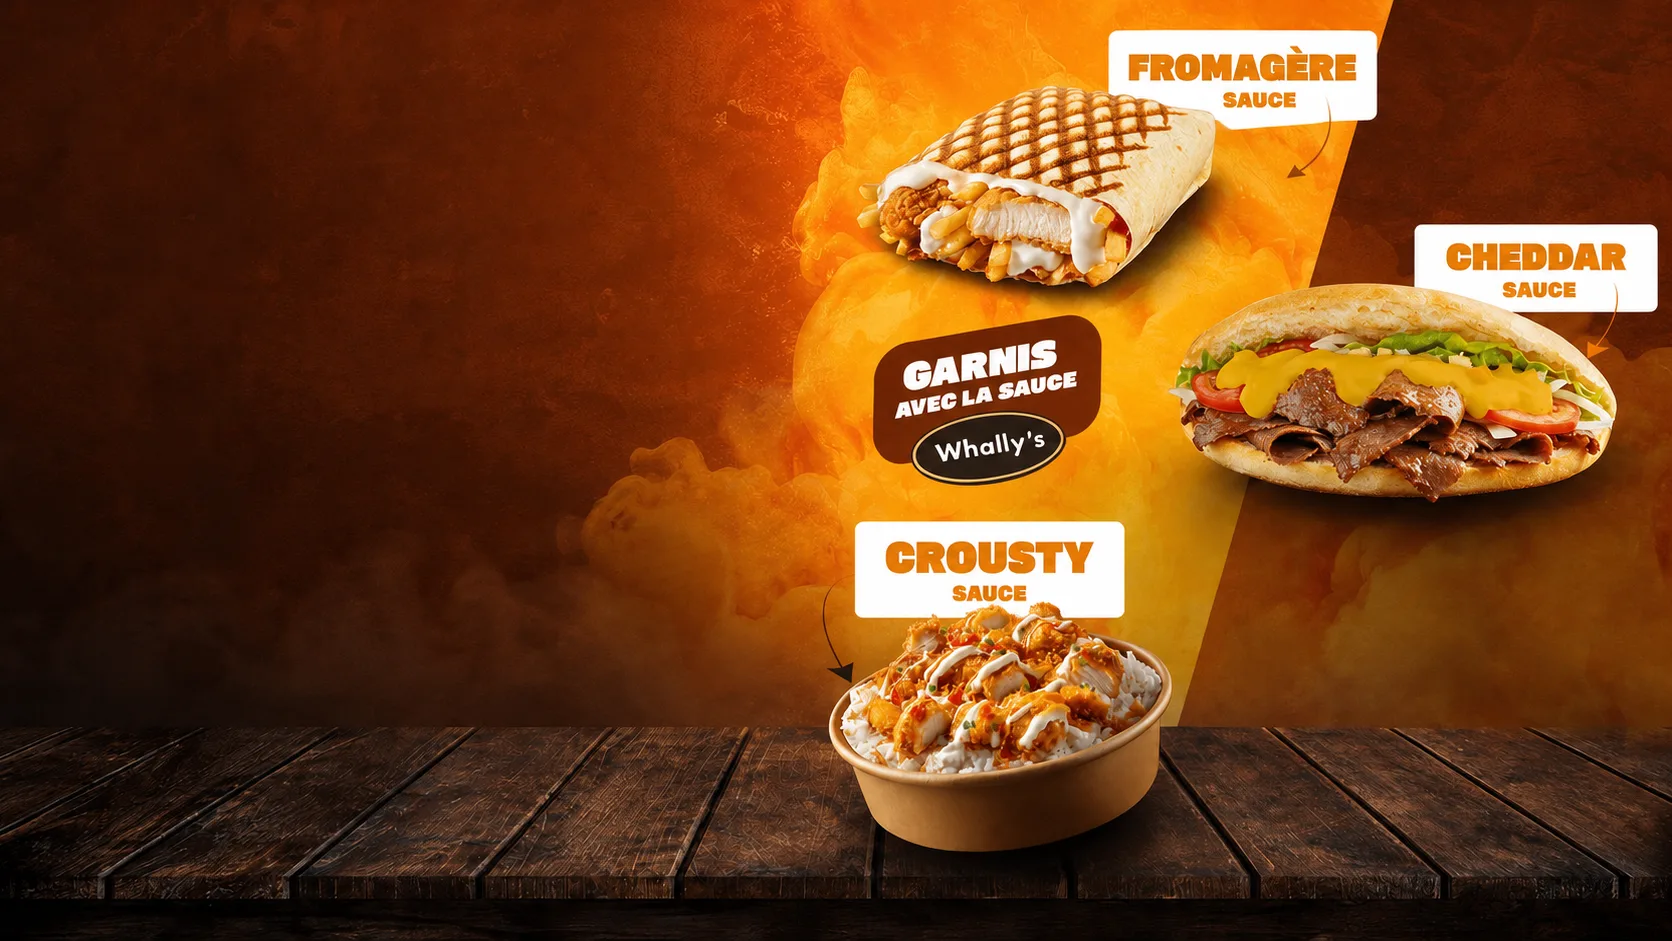
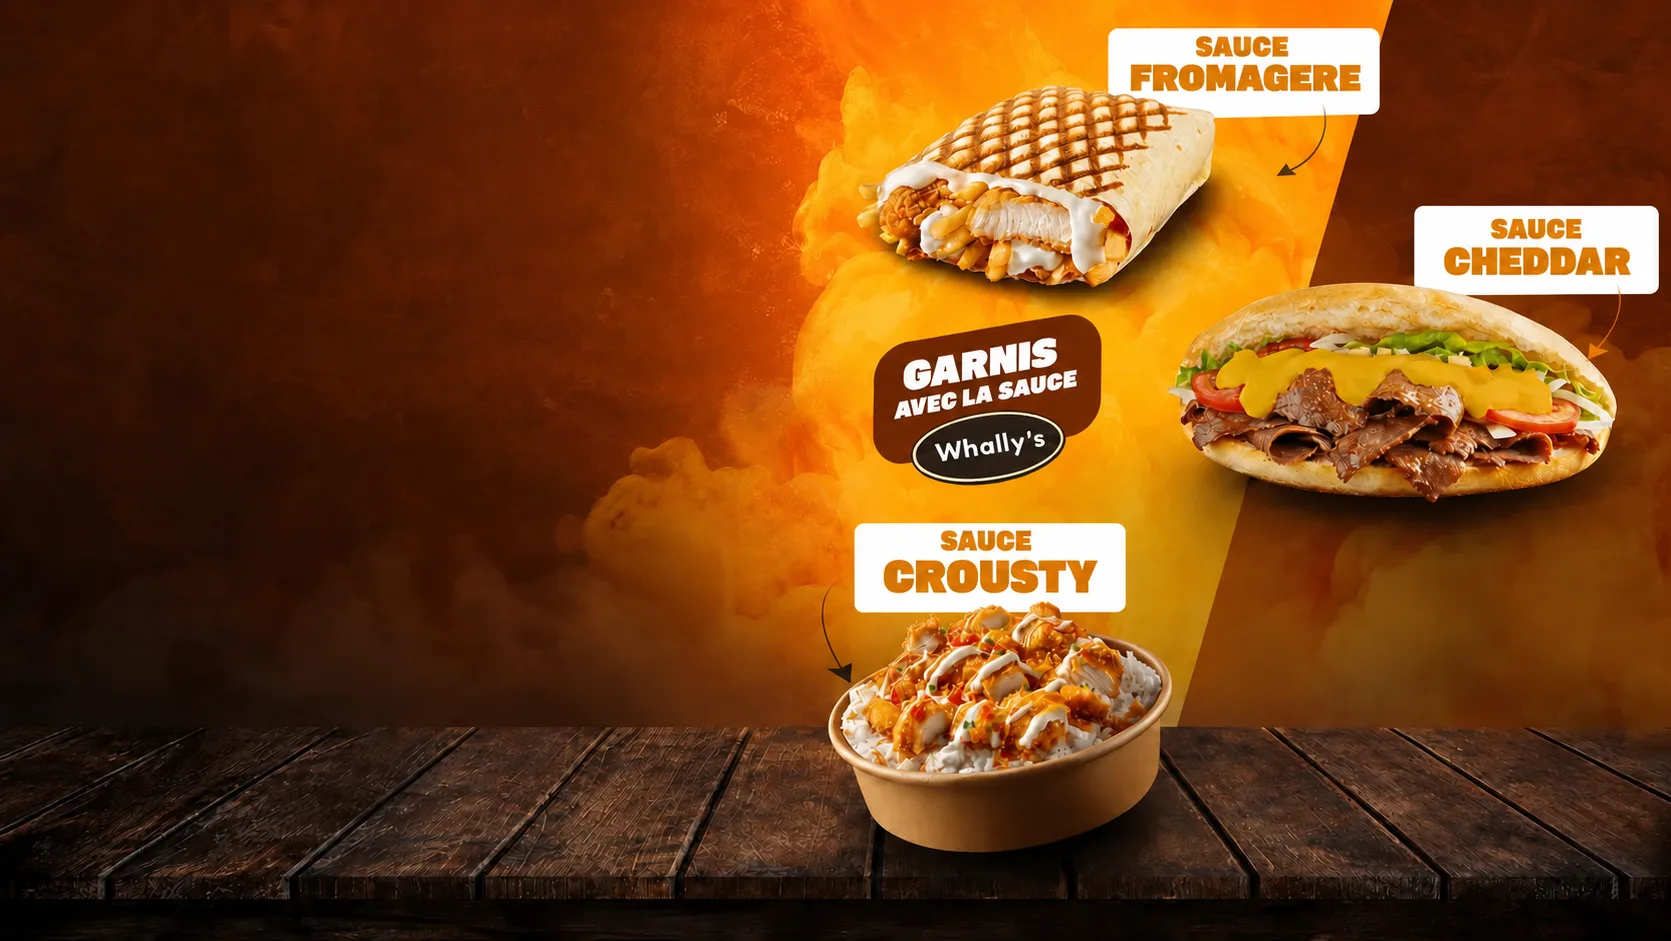
Nouveaux posters hero/cheddar/fromagère, navbar opaque sticky, ajustements textes
- Remplace les posters hero, cheddar et fromagère par les nouvelles photos
  client (converties en webp optimisé)
- Corrige le contraste et le chevauchement du texte sur la section Fromagère
  (accroche en blanc, largeur de texte adaptée au nouveau poster)
- Réduit le logo Whally's dans PosterSection pour plus de respiration
- Navbar : passe de fixed/transparente à sticky avec fond opaque identique
  au body (ne chevauche plus le hero)
- Hero : eyebrow "Sauces signature Whally's" agrandi sur 2 lignes,
  légèrement au-dessus du headline ; sous-titre masqué sur mobile

diff --git a/src/components/Hero/Hero.module.css b/src/components/Hero/Hero.module.css
@@ -18,7 +18,7 @@
   z-index: 0;
   background:
     linear-gradient(rgba(28, 15, 6, 0.28), rgba(28, 15, 6, 0.28)),
-    url('/sections/hero-poster.webp');
+    url("/sections/hero-poster.webp");
   background-size: cover;
   /* Décalé vers le bas : le produit "Fromagère" du poster est proche du bord
      haut de l'image — sans ce décalage, il passe derrière la navbar
@@ -59,24 +59,31 @@
 
 .eyebrow {
   font-family: var(--font-sans);
-  font-size: clamp(11px, 1vw, 14px);
-  font-weight: 600;
-  letter-spacing: 0.26em;
+  /* Sur 2 lignes : « Sauces signature » / « Whally's ». Taille et largeur
+     limitées pour ne pas chevaucher les produits/labels du poster de fond. */
+  font-size: clamp(52px, 3vw, 40px);
+  font-weight: 700;
+  letter-spacing: 0.05em;
   text-transform: uppercase;
   color: var(--color-or);
+  line-height: 1.15;
+  max-width: 17ch;
+  white-space: normal;
   margin-bottom: clamp(16px, 2vw, 24px);
 }
 
-/* ───────── Titre = les 3 sauces cliquables, empilées sur 3 lignes ───────── */
+/* ───────── Titre = les 3 sauces cliquables, empilées sur 3 lignes ─────────
+   Reste en dessous de l'eyebrow (demande client) mais agrandi par rapport à
+   la version compacte précédente. */
 .headline {
   display: flex;
   flex-direction: column;
   align-items: flex-start;
   font-family: var(--font-serif);
   font-weight: 700;
-  font-size: clamp(44px, 8vw, 104px);
-  letter-spacing: -0.035em;
-  line-height: 0.98;
+  font-size: clamp(66px, 3.4vw, 46px);
+  letter-spacing: -0.03em;
+  line-height: 1;
   color: #fff;
   text-shadow: 0 8px 40px rgba(0, 0, 0, 0.5);
   margin-bottom: clamp(20px, 2.6vw, 32px);
@@ -96,7 +103,9 @@
   background-repeat: no-repeat;
   background-position: 0 100%;
   background-size: 0% 0.07em;
-  transition: background-size 340ms var(--ease-out), color 200ms var(--ease-out);
+  transition:
+    background-size 340ms var(--ease-out),
+    color 200ms var(--ease-out);
 }
 
 @media (hover: hover) and (pointer: fine) {
@@ -151,11 +160,17 @@
   font-size: clamp(15px, 1.5vw, 17px);
   font-weight: 700;
   box-shadow: 0 16px 40px -16px rgba(201, 162, 75, 0.6);
-  transition: transform 160ms var(--ease-out), background-color 220ms var(--ease-out),
+  transition:
+    transform 160ms var(--ease-out),
+    background-color 220ms var(--ease-out),
     box-shadow 300ms var(--ease-out);
 }
 
-.ctaWa { width: 22px; height: 22px; flex-shrink: 0; }
+.ctaWa {
+  width: 22px;
+  height: 22px;
+  flex-shrink: 0;
+}
 
 @media (hover: hover) and (pointer: fine) {
   .cta:hover {
@@ -163,7 +178,9 @@
     box-shadow: 0 20px 48px -16px rgba(201, 162, 75, 0.7);
   }
 }
-.cta:active { transform: scale(0.97); }
+.cta:active {
+  transform: scale(0.97);
+}
 
 .ctaSecondary {
   display: inline-flex;
@@ -179,7 +196,9 @@
   font-weight: 600;
   backdrop-filter: blur(6px);
   -webkit-backdrop-filter: blur(6px);
-  transition: transform 160ms var(--ease-out), background-color 220ms var(--ease-out),
+  transition:
+    transform 160ms var(--ease-out),
+    background-color 220ms var(--ease-out),
     border-color 220ms var(--ease-out);
 }
 
@@ -188,9 +207,13 @@
     background-color: rgba(255, 255, 255, 0.14);
     border-color: rgba(255, 255, 255, 0.7);
   }
-  .ctaSecondary:hover .ctaArrow { transform: translateX(4px); }
+  .ctaSecondary:hover .ctaArrow {
+    transform: translateX(4px);
+  }
 }
-.ctaSecondary:active { transform: scale(0.97); }
+.ctaSecondary:active {
+  transform: scale(0.97);
+}
 
 .ctaArrow {
   width: 18px;
@@ -222,11 +245,9 @@
     margin-bottom: clamp(14px, 3vw, 22px);
   }
 
+  /* Sous-titre retiré sur mobile (demande client). */
   .subline {
-    /* Taille calée pour tenir sur une ligne sur mobile ; on retombe sur du
-       wrap normal seulement sur les très petits écrans (cf. media 380px). */
-    font-size: clamp(14px, 4.1vw, 20px);
-    margin-bottom: clamp(22px, 4vw, 32px);
+    display: none;
   }
 
   .actions {
@@ -238,7 +259,7 @@
   .bg {
     background:
       linear-gradient(rgba(28, 15, 6, 0.28), rgba(28, 15, 6, 0.28)),
-      url('/sections/hero-poster-mobile.webp');
+      url("/sections/hero-poster-mobile.webp");
     background-size: cover;
     background-position: center;
   }
@@ -247,27 +268,22 @@
      produits en bas (nécessaire ici, contrairement au desktop). */
   .scrim {
     display: block;
-    background:
-      linear-gradient(
-        to bottom,
-        rgba(18, 10, 5, 0.96) 0%,
-        rgba(18, 10, 5, 0.86) 30%,
-        rgba(18, 10, 5, 0.45) 52%,
-        rgba(18, 10, 5, 0.1) 72%,
-        transparent 86%
-      );
+    background: linear-gradient(
+      to bottom,
+      rgba(18, 10, 5, 0.96) 0%,
+      rgba(18, 10, 5, 0.86) 30%,
+      rgba(18, 10, 5, 0.45) 52%,
+      rgba(18, 10, 5, 0.1) 72%,
+      transparent 86%
+    );
   }
-}
-
-/* Très petits écrans : le sous-titre peut revenir à la ligne pour éviter tout
-   débordement horizontal. */
-@media (max-width: 400px) {
-  .subline { white-space: normal; }
 }
 
 /* ───────── Mouvement réduit ─────────
    Le hero n'a plus d'animation d'entrée ni de mouvement (produits fixes) : il
    ne reste qu'à neutraliser la micro-translation de la flèche CTA au survol. */
 @media (prefers-reduced-motion: reduce) {
-  .ctaSecondary:hover .ctaArrow { transform: none; }
+  .ctaSecondary:hover .ctaArrow {
+    transform: none;
+  }
 }

diff --git a/src/components/Navbar/Navbar.jsx b/src/components/Navbar/Navbar.jsx
@@ -20,8 +20,6 @@ function Navbar() {
   const [productsOpen, setProductsOpen] = useState(false);
   const location = useLocation();
 
-  // La navbar n'est transparente que sur la Home (hero vidéo sombre derrière).
-  // Ailleurs, fond beige par défaut pour rester lisible.
   const isHome = location.pathname === '/';
 
   // Lien vers la section produits : ancre simple sur la Home, sinon on revient
@@ -37,11 +35,10 @@ function Navbar() {
     setOpen(false);
   }, [location.pathname]);
 
-  // Sur la Home, la navbar reste TRANSPARENTE en permanence (demande client) :
-  // le fond derrière est toujours sombre/imagé (hero vidéo, section poster feu…).
-  // Sur les autres pages (ex. /commande, fond clair), on force le fond beige.
+  // Fond beige opaque dès le chargement, sur toutes les pages (y compris la
+  // Home) : la navbar ne se fond plus dans le hero.
   useEffect(() => {
-    setScrolled(!isHome);
+    setScrolled(true);
   }, [isHome]);
 
   // Masquer la barre au scroll vers le bas, la révéler au scroll vers le haut.

diff --git a/src/components/Navbar/Navbar.module.css b/src/components/Navbar/Navbar.module.css
@@ -3,13 +3,15 @@
      Desktop : 76px (logo) + 2×6px (padding vertical) = 88px. */
   --nav-h: 88px;
 
-  position: fixed;
+  /* Sticky (pas fixed) : la barre prend sa place normale dans le flux, le
+     contenu qui suit (hero…) commence en dessous d'elle au lieu d'être
+     recouvert. */
+  position: sticky;
   top: 0;
   left: 0;
   right: 0;
   z-index: 50;
-  /* État par défaut : transparent (par-dessus le hero vidéo). */
-  background-color: transparent;
+  background-color: var(--color-bg);
   border-bottom: 1px solid transparent;
   transition:
     background-color 300ms var(--ease-out),
@@ -31,11 +33,9 @@
   }
 }
 
-/* État au scroll : fond beige translucide + flou + bordure. */
+/* État au scroll : même fond opaque que le body (pas de flou/transparence). */
 .headerScrolled {
-  background-color: rgba(250, 247, 242, 0.85);
-  backdrop-filter: saturate(180%) blur(12px);
-  -webkit-backdrop-filter: saturate(180%) blur(12px);
+  background-color: var(--color-bg);
   border-bottom-color: var(--color-border);
 }
 

diff --git a/src/data/produits.js b/src/data/produits.js
@@ -13,8 +13,15 @@ export const PRODUITS = [
     // Poster mobile dédié (format portrait) : produit + titre en bas de
     // l'image, zone vide en haut → le texte de présentation passe en haut.
     posterMobile: '/sections/fromagere-poster-mobile.webp',
-    // Texte descendu sur mobile (demande client).
-    texteTopMobile: '12%',
+    // Texte remonté sur mobile : sur ce poster, la zone vide au-dessus du
+    // lettering "FROMAGERE" est plus courte que sur les autres produits.
+    texteTopMobile: '4%',
+    // Zone vide plus étroite à gauche sur ce poster (le lettering "FROMAGERE"
+    // démarre tôt) : bloc texte resserré pour ne pas chevaucher l'image.
+    texteWidth: '46ch',
+    // Description plus large (aligné avec le style Crousty) : lignes plus
+    // longues plutôt que du texte compact.
+    descriptionWidth: '46ch',
     // Logo Whally's affiché à droite du titre (demande client, PDF page 2).
     logo: true,
     // Sous-titre (texte en jaune / italique sous le titre).

diff --git a/src/components/PosterSection/PosterSection.module.css b/src/components/PosterSection/PosterSection.module.css
@@ -59,7 +59,7 @@
 }
 
 .logo {
-  height: clamp(52px, 6vw, 90px);
+  height: clamp(40px, 4.4vw, 68px);
   width: auto;
   max-width: 100%;
   flex-shrink: 1;
@@ -73,7 +73,9 @@
   font-weight: 400;
   font-size: clamp(20px, 2vw, 27px);
   line-height: 1.35;
-  color: var(--color-or);
+  /* Blanc (plutôt que doré) : le doré perd tout contraste sur les posters à
+     fond clair (ex. fond jaune de la section Fromagère). */
+  color: #fff;
   text-shadow: 0 2px 8px rgba(0, 0, 0, 0.6);
 }
 

diff --git a/src/components/PosterSection/PosterSection.jsx b/src/components/PosterSection/PosterSection.jsx
@@ -26,6 +26,7 @@ function PosterSection({ produit }) {
         style={{
           '--texte-top': produit.texteTop,
           '--texte-top-mobile': produit.texteTopMobile,
+          maxWidth: produit.texteWidth,
         }}
       >
         <div className={styles.textHead}>
